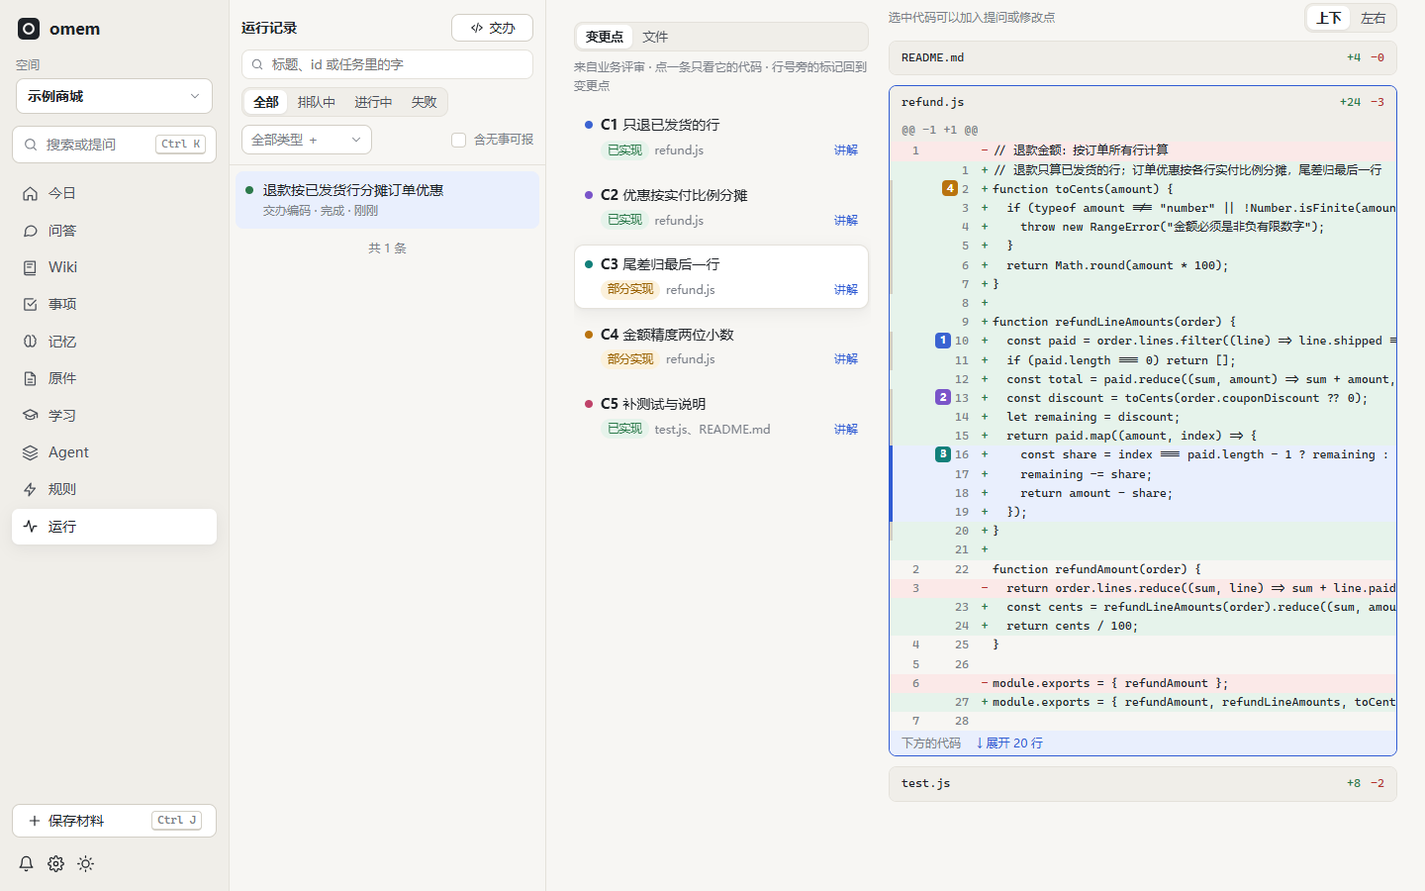
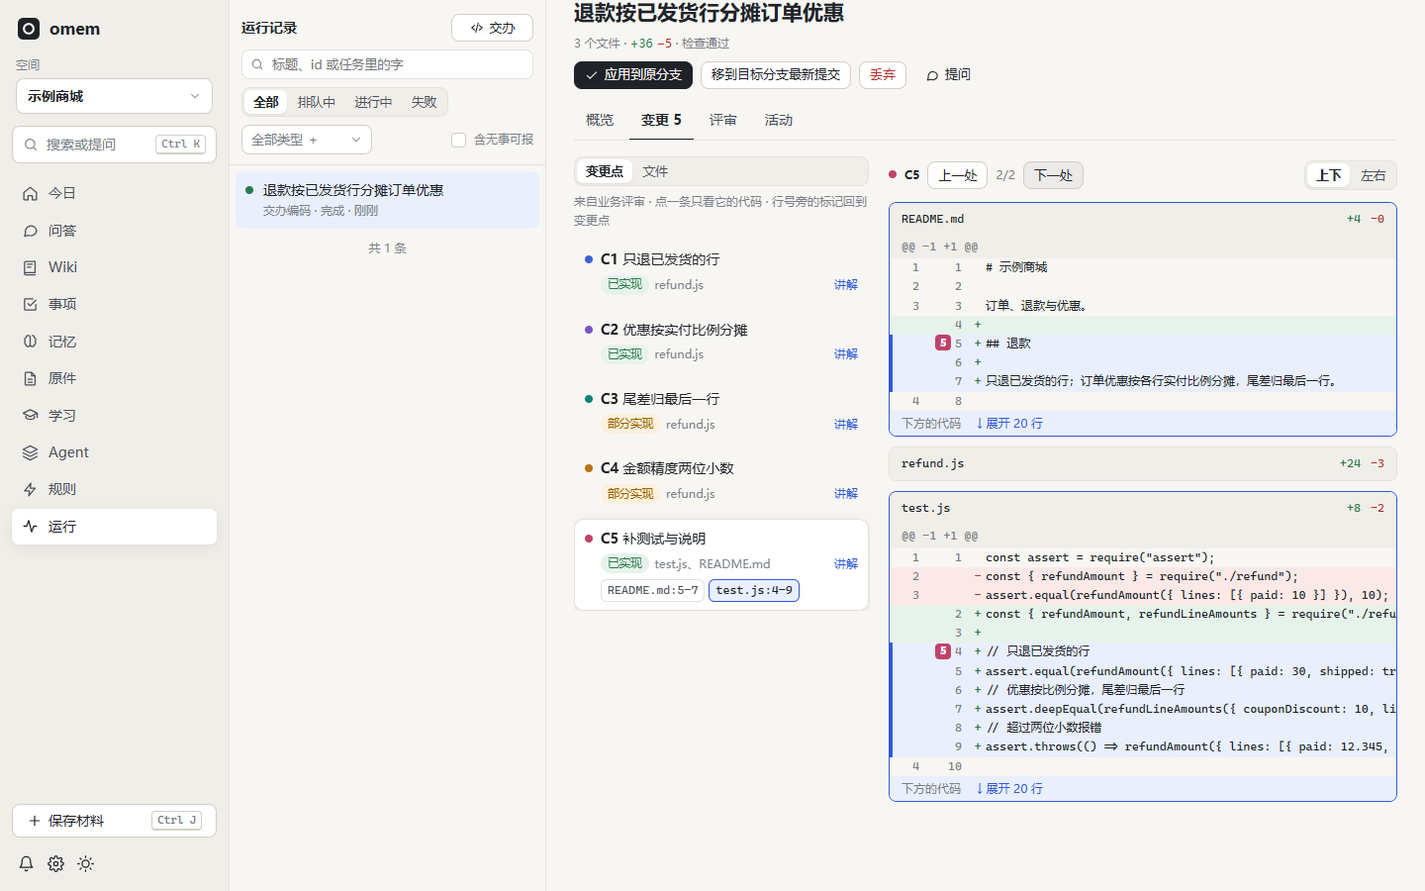
变更点逐处跳转：选中的变更点列出各处位置（文件:行），点哪处跳哪处；代码上方吸顶的“上一处 / 下一处”与计数，键盘 n / N；跳到的行短暂描边；文件树给当前变更点涉及的文件加同色圆点；doc-screens 加 --serve

diff --git a/web/src/components/ChangeView.vue b/web/src/components/ChangeView.vue
@@ -1,5 +1,5 @@
 <script setup lang="ts">
-import { computed, nextTick, onBeforeUnmount, ref, watch } from "vue";
+import { computed, nextTick, onBeforeUnmount, onMounted, ref, watch } from "vue";
 import { get, post } from "../api";
 import DiffFile, { type DiffPoint } from "./DiffFile.vue";
 import DiffTree from "./DiffTree.vue";
@@ -11,7 +11,8 @@ import { POINT_STATUS, type ChangePoint, type Reviews } from "../lib/reviews";
 /**
  * The run page's “变更” tab: the requirement's change points (from the business review) on the left,
  * or the changed files as a tree, and the diff on the right. Choosing a point highlights its lines and
- * scrolls its first mark into view; the marks next to line numbers lead back to the point. A point's
+ * scrolls to its first place in the code; its places are listed under it and stepped through with
+ * 上一处 / 下一处 (or n / N). The marks next to line numbers lead back to the point. A point's
  * explanation opens in the ask drawer.
  */
 type DiffRepo = { space: string; files: { name: string; lines: string[]; add: number; rm: number }[] };
@@ -57,23 +58,82 @@ async function choose(p: ChangePoint) {
   for (const d of props.diffs) for (const f of d.files) if (touches(p, d.space, f.name)) n.add(key(d.space, f.name));
   open.value = n;
   view.value = "code";
+  stop.value = 0;
   await nextTick();
-  // The point's first marked line, a third of the way down (its number badge in sight); a point
-  // known only by file goes to that file's header.
-  const line = codeEl.value?.querySelector<HTMLElement>(".cp-on");
-  if (line) scrollToEl(line, 0.33);
-  else { const f = codeEl.value?.querySelector<HTMLElement>(".file.hit"); if (f) scrollToEl(f, 0); }
+  await go(0);
 }
+
+// ---- a point's places in the code, in page order, stepped through one by one -------------------
+type Stop = { key: string; name: string; start?: number; end?: number };
+const pageFiles = computed(() => (points.value.length ? mapped.value : props.diffs).flatMap((d) => d.files.map((f) => ({ space: d.space, name: f.name }))));
+const stopsOf = (p: ChangePoint): Stop[] => {
+  const out: Stop[] = [];
+  for (const f of pageFiles.value) {
+    const locs = p.locations.filter((l) => sameFile(f.space, f.name, l.file)).sort((a, b) => (a.start ?? 0) - (b.start ?? 0));
+    const seen = new Set<string>();
+    for (const l of locs) {
+      const s = `${l.start ?? ""}`;
+      if (seen.has(s)) continue;
+      seen.add(s);
+      out.push({ key: key(f.space, f.name), name: f.name.split("/").pop()!, start: l.start, end: l.end ?? l.start });
+    }
+  }
+  return out;
+};
+const activePoint = computed(() => points.value.find((p) => p.id === active.value) ?? null);
+const stops = computed(() => (activePoint.value ? stopsOf(activePoint.value) : []));
+/** Locations naming a file the diff does not have (a reviewer's slip, or a file outside the change). */
+const strays = computed(() => activePoint.value?.locations.filter((l) => !pageFiles.value.some((f) => sameFile(f.space, f.name, l.file))) ?? []);
+const stop = ref(0);
+const stopLabel = (s: Stop) => (s.start ? `${s.name}:${s.start}${s.end && s.end !== s.start ? `–${s.end}` : ""}` : `${s.name}（文件级）`);
+let flashed: HTMLElement | null = null;
+let flashTimer: ReturnType<typeof setTimeout> | undefined;
+async function go(i: number) {
+  const list = stops.value;
+  if (!list.length) {
+    const f = codeEl.value?.querySelector<HTMLElement>(".file.hit");
+    if (f) scrollToEl(f, 0);
+    return;
+  }
+  stop.value = (i + list.length) % list.length;
+  const s = list[stop.value];
+  if (!open.value.has(s.key)) { open.value = new Set([...open.value, s.key]); await nextTick(); }
+  const file = codeEl.value?.querySelector<HTMLElement>(`.file[data-key="${CSS.escape(s.key)}"]`);
+  if (!file) return;
+  // The location's first marked row, a third of the way down (its number badge in sight); a
+  // location known only by file goes to that file's header.
+  const rows = [...file.querySelectorAll<HTMLElement>("tr.cp-on")];
+  const row = s.start ? (rows.find((r) => { const n = Number(r.dataset.line); return n >= s.start! && n <= (s.end ?? s.start!); }) ?? rows[0]) : null;
+  if (row) scrollToEl(row, 0.33);
+  else scrollToEl(file, 0);
+  flashed?.classList.remove("cp-here");
+  clearTimeout(flashTimer);
+  flashed = row ?? file;
+  flashed.classList.add("cp-here");
+  flashTimer = setTimeout(() => flashed?.classList.remove("cp-here"), 1600);
+}
+function onKey(e: KeyboardEvent) {
+  if (!active.value || e.ctrlKey || e.metaKey || e.altKey || (e.key !== "n" && e.key !== "N")) return;
+  const t = e.target;
+  if (t instanceof HTMLElement && (t.closest("input, textarea, select, [contenteditable]") || t.isContentEditable)) return;
+  e.preventDefault();
+  void go(stop.value + (e.key === "N" ? -1 : 1));
+}
+onMounted(() => window.addEventListener("keydown", onKey));
+onBeforeUnmount(() => { window.removeEventListener("keydown", onKey); clearTimeout(flashTimer); });
+const activeFiles = computed(() => new Set(stops.value.map((s) => s.key)));
 /** Scroll the nearest scrolling ancestor (or the window) so `el` sits at `frac` of the visible height. */
 function scrollToEl(el: HTMLElement, frac: number) {
   let box: HTMLElement | null = el.parentElement;
   // (A box scrolling sideways computes overflow-y auto too; only one that scrolls down counts.)
   while (box && !(/(auto|scroll)/.test(getComputedStyle(box).overflowY) && box.scrollHeight > box.clientHeight)) box = box.parentElement;
   const r = el.getBoundingClientRect();
+  // Clear of the sticky bar above the code.
+  const pad = (codeEl.value?.querySelector<HTMLElement>(".code-bar")?.offsetHeight ?? 0) + 6;
   if (box) {
     const b = box.getBoundingClientRect();
-    box.scrollTo({ top: box.scrollTop + r.top - b.top - b.height * frac + 8, behavior: "smooth" });
-  } else window.scrollTo({ top: window.scrollY + r.top - window.innerHeight * frac + 8, behavior: "smooth" });
+    box.scrollTo({ top: box.scrollTop + r.top - b.top - b.height * frac - pad, behavior: "smooth" });
+  } else window.scrollTo({ top: window.scrollY + r.top - window.innerHeight * frac - pad, behavior: "smooth" });
 }
 // ---- the file tree: every changed file, opened and scrolled to on a pick -----------------------
 const aside = ref<"points" | "files">("points");
@@ -95,7 +155,7 @@ function fromMark(id: string) {
   const p = points.value.find((x) => x.id === id);
   if (p) emit("explain", p);
 }
-watch(() => props.runId, () => { active.value = null; activeFile.value = null; open.value = new Set(); });
+watch(() => props.runId, () => { active.value = null; activeFile.value = null; open.value = new Set(); stop.value = 0; });
 // An earlier review has no split: one can be run now; the page follows it until the points arrive.
 const splitRun = ref<string | null>(null);
 let splitTimer: ReturnType<typeof setTimeout> | undefined;
@@ -131,7 +191,7 @@ const viewOptions = [{ value: "points" as const, label: "变更点" }, { value: 
     <div class="cols">
       <aside class="points" :class="{ hide: view !== 'points' }">
         <UiSegmented v-model="aside" size="sm" :options="asideOptions" aria-label="按变更点还是按文件看" />
-        <DiffTree v-if="aside === 'files'" :files="treeFiles" :active="activeFile" :marked="pointFiles" @pick="pickFile" />
+        <DiffTree v-if="aside === 'files'" :files="treeFiles" :active="activeFile" :marked="pointFiles" :hot="activeFiles" :hot-color="active ? colorOf(active) : undefined" @pick="pickFile" />
         <template v-else>
         <p v-if="points.length" class="legend muted small">来自业务评审 · 点一条只看它的代码 · 行号旁的标记回到变更点</p>
         <div v-else class="split">
@@ -150,11 +210,24 @@ const viewOptions = [{ value: "points" as const, label: "变更点" }, { value: 
             <span class="spacer" />
             <button class="lnk" @click="emit('explain', p)">讲解</button>
           </div>
+          <ol v-if="active === p.id && stops.length + strays.length > 1" class="stops small" aria-label="这个变更点在代码里的位置">
+            <li v-for="(s, i) in stops" :key="`${s.key}:${s.start ?? ''}`">
+              <button class="stop mono" :class="{ on: stop === i }" :aria-current="stop === i ? 'location' : undefined" :title="s.key.slice(s.key.indexOf(':') + 1)" @click="go(i)">{{ stopLabel(s) }}</button>
+            </li>
+            <li v-for="l in strays" :key="`x:${l.file}:${l.start ?? ''}`" class="muted mono" title="改动里没有这个文件">{{ l.file.split("/").pop() }}{{ l.start ? `:${l.start}` : "" }}（不在改动里）</li>
+          </ol>
         </div>
         </template>
       </aside>
       <div ref="codeEl" class="code" :class="{ hide: view !== 'code' }">
-        <div class="code-bar row"><span class="muted small">选中代码可以加入提问或修改点</span><span class="spacer" /><UiSegmented v-model="diffLayout" size="sm" :options="diffLayoutOptions" aria-label="差异的排列" /></div>
+        <div class="code-bar row">
+          <span v-if="active && stops.length > 1" class="nav row small">
+            <span class="dot" :style="{ background: colorOf(active) }" /><strong>{{ active }}</strong>
+            <button class="btn sm" title="上一处（N）" @click="go(stop - 1)">上一处</button>
+            <span class="muted">{{ stop + 1 }}/{{ stops.length }}</span>
+            <button class="btn sm" title="下一处（n）" @click="go(stop + 1)">下一处</button>
+          </span>
+          <span v-else class="muted small">选中代码可以加入提问或修改点</span><span class="spacer" /><UiSegmented v-model="diffLayout" size="sm" :options="diffLayoutOptions" aria-label="差异的排列" /></div>
         <template v-for="d in points.length ? mapped : diffs" :key="d.space">
           <div v-if="multi" class="repo">{{ spaceName(d.space) }}</div>
           <div v-for="f in d.files" :key="f.name" class="file" :data-key="key(d.space, f.name)" :class="{ hit: !!active && points.some((p) => p.id === active && touches(p, d.space, f.name)), picked: activeFile === key(d.space, f.name) }">
@@ -199,7 +272,14 @@ const viewOptions = [{ value: "points" as const, label: "变更点" }, { value: 
 .repo { margin: 4px 0 6px; font-weight: 600; }
 .file { border: 1px solid var(--line); border-radius: 8px; margin-bottom: 10px; overflow: hidden; }
 .file.hit, .file.picked { border-color: var(--accent); }
-.code-bar { margin-bottom: 8px; }
+.file.cp-here { box-shadow: 0 0 0 2px var(--accent-soft); }
+.code-bar { margin-bottom: 8px; position: sticky; top: 0; z-index: 2; background: var(--bg); padding: 4px 0; gap: 8px; }
+.nav { gap: 8px; align-items: center; }
+.stops { list-style: none; margin: 6px 0 0 16px; padding: 0; display: flex; flex-wrap: wrap; gap: 4px; }
+.stop { border: 1px solid var(--line); background: var(--panel); color: var(--ink-2); border-radius: 6px; padding: 1px 6px; font-size: 12px; cursor: pointer; max-width: 100%; overflow: hidden; text-overflow: ellipsis; white-space: nowrap; }
+.stop:hover { border-color: var(--accent); }
+.stop.on { border-color: var(--accent); background: var(--accent-soft); color: var(--ink); }
+.stops .muted { font-size: 12px; padding: 1px 0; }
 .fhead { display: flex; gap: 10px; width: 100%; padding: 7px 12px; background: var(--sunken); border: 0; color: var(--ink); cursor: pointer; text-align: left; min-width: 0; }
 .fhead .ellipsis { flex: 1; min-width: 0; }
 .add { color: var(--ok); }

diff --git a/scripts/doc-screens.ts b/scripts/doc-screens.ts
@@ -7,7 +7,8 @@
  * technical plan, a group chat, code, a Wiki page, memories, items, a reviewed delegation, a rule),
  * serves the built web on it and captures each feature at 1440×900 (light). Nothing real is shown,
  * so the images can be published. When a page changes, run it again; the file names stay the same.
- * Uses the installed Edge or Chrome (CHROMIUM=path to override).
+ * Uses the installed Edge or Chrome (CHROMIUM=path to override). With `--serve` it only serves the
+ * demo data and prints the address, to look around by hand.
  */
 import { mkdirSync, mkdtempSync, rmSync, writeFileSync } from "node:fs";
 import { tmpdir } from "node:os";
@@ -27,7 +28,8 @@ import { startServer } from "../src/server/http.ts";
 import { upsertSource } from "../src/sources/store.ts";
 import { writePage } from "../src/wiki/store.ts";
 
-const out = resolve(process.argv[2] ?? "site/public/screens");
+const serveOnly = process.argv.includes("--serve");
+const out = resolve(process.argv.slice(2).find((a) => !a.startsWith("--")) ?? "site/public/screens");
 mkdirSync(out, { recursive: true });
 const home = mkdtempSync(join(tmpdir(), "omem-screens-"));
 const app = App.open(home);
@@ -258,6 +260,10 @@ const rule = saveRule(app, {
 // ---- capture ----------------------------------------------------------------------------------
 const server = await startServer(app, { port: 0, host: "127.0.0.1", quiet: true });
 const url = app.baseUrl;
+if (serveOnly) {
+  console.log(`演示数据：${url}/#/runs/${r.id}（Ctrl+C 结束）`);
+  await new Promise(() => {});
+}
 const browser = await chromium.launch(process.env.CHROMIUM ? { executablePath: process.env.CHROMIUM } : { channel: process.platform === "win32" ? "msedge" : "chrome" });
 const shots: { name: string; path: string; width?: number; dark?: boolean; prepare?: (page: Page) => Promise<void> }[] = [
   { name: "today", path: "/" },
@@ -268,7 +274,7 @@ const shots: { name: string; path: string; width?: number; dark?: boolean; prepa
   { name: "items", path: `/items/${item.id}` },
   { name: "review-overview", path: `/runs/${r.id}` },
   { name: "review-checks", path: `/runs/${r.id}`, prepare: async (p) => { await p.getByRole("tab", { name: "评审" }).click(); await p.locator(".check-head").nth(1).click(); await p.waitForTimeout(300); } },
-  { name: "review-change", path: `/runs/${r.id}`, prepare: async (p) => { await p.getByRole("tab", { name: /变更/ }).click(); await p.locator(".pick").nth(2).click(); await p.waitForTimeout(1200); } },
+  { name: "review-change", path: `/runs/${r.id}`, prepare: async (p) => { await p.getByRole("tab", { name: /变更/ }).click(); await p.locator(".pick").nth(4).click(); await p.waitForTimeout(900); await p.getByRole("button", { name: "下一处" }).click(); await p.waitForTimeout(1200); } },
   { name: "review-split-diff", path: `/runs/${r.id}`, prepare: async (p) => { await p.getByRole("tab", { name: /变更/ }).click(); await p.getByRole("radio", { name: "左右" }).click(); await p.getByRole("radio", { name: "文件" }).click(); await p.locator(".tree .row-btn.file").first().click(); await p.waitForTimeout(1200); } },
   { name: "review-activity", path: `/runs/${r.id}`, prepare: async (p) => { await p.getByRole("tab", { name: "活动" }).click(); await p.waitForTimeout(500); await p.locator(".sec-head").nth(1).click(); await p.waitForTimeout(300); } },
   { name: "review-quotes", path: `/runs/${r.id}`, prepare: async (p) => {

diff --git a/web/src/components/DiffTree.vue b/web/src/components/DiffTree.vue
@@ -8,7 +8,8 @@ import Icon from "./Icon.vue";
  * (open its diff and scroll to it).
  */
 export type TreeFile = { key: string; path: string; add: number; rm: number };
-const props = defineProps<{ files: TreeFile[]; active?: string | null; marked?: Set<string> }>();
+/** `hot`: the files of the change point being looked at, shown with its colour. */
+const props = defineProps<{ files: TreeFile[]; active?: string | null; marked?: Set<string>; hot?: Set<string>; hotColor?: string }>();
 const emit = defineEmits<{ pick: [key: string] }>();
 
 type Dir = { name: string; path: string; dirs: Map<string, Dir>; files: TreeFile[] };
@@ -60,7 +61,7 @@ const lines = computed(() => {
         <Icon :name="closed.has(l.dir.path) ? 'right' : 'down'" :size="12" /><Icon name="folder" :size="13" /><span class="ellipsis">{{ l.dir.name }}</span>
       </button>
       <button v-else class="row-btn file" :class="{ on: active === l.file.key, marked: marked?.has(l.file.key) }" :style="{ paddingLeft: `${24 + l.depth * 14}px` }" :title="l.file.path" @click="emit('pick', l.file.key)">
-        <span class="ellipsis mono">{{ l.name }}</span><span class="add">+{{ l.file.add }}</span><span class="rm">-{{ l.file.rm }}</span>
+        <span class="ellipsis mono">{{ l.name }}</span><span v-if="hot?.has(l.file.key)" class="hot" :style="{ background: hotColor }" title="当前变更点涉及" /><span class="add">+{{ l.file.add }}</span><span class="rm">-{{ l.file.rm }}</span>
       </button>
     </template>
   </nav>
@@ -74,6 +75,7 @@ const lines = computed(() => {
 .dir { color: var(--ink); }
 .file.on { background: var(--accent-soft); color: var(--ink); }
 .file.marked .mono { font-weight: 600; }
+.hot { width: 7px; height: 7px; border-radius: 50%; flex: none; background: var(--accent); }
 .add { color: var(--ok); font-size: 11px; }
 .rm { color: var(--danger); font-size: 11px; }
 </style>

diff --git a/web/src/components/DiffFile.vue b/web/src/components/DiffFile.vue
@@ -219,6 +219,9 @@ const gapLabel = (g: Gap) => (g.to === null && !file.value ? "下方的代码" :
 .cp > td:first-child { box-shadow: inset 3px 0 0 var(--line-strong); }
 .cp-on > td { background-image: linear-gradient(var(--accent-soft), var(--accent-soft)); }
 .cp-on > td:first-child { box-shadow: inset 3px 0 0 var(--accent); }
+/* The place 上一处 / 下一处 just went to. */
+.cp-here > td { animation: cp-here 1.6s ease-out; }
+@keyframes cp-here { from { background-color: var(--accent-soft); outline: 2px solid var(--accent); outline-offset: -2px; } to { outline-color: transparent; } }
 /* Side by side: fixed columns, long lines wrap instead of scrolling the half sideways. */
 .split .dtable { table-layout: fixed; }
 .split .cno { width: 52px; }

diff --git a/.repo-review/wiki/reference/changes-since-2026-10-13.md b/.repo-review/wiki/reference/changes-since-2026-10-13.md
@@ -87,6 +87,7 @@ updated: 2026-10-25
 
 ## 网页
 
+- 变更点逐处跳转（10-27）：选中的变更点下面列出它在代码里的各处位置（按页面顺序，同一文件按行号；改动里没有的文件标“不在改动里”），点哪处跳哪处；代码上方的吸顶条显示“上一处 / 下一处”和计数，键盘 `n` / `N` 同样可用；跳到的行短暂描边；文件树给当前变更点涉及的文件加同色圆点（`ChangeView.vue` 的 `stops` / `go`，`DiffTree` 的 `hot`）。`scripts/doc-screens.ts --serve` 只启动演示数据供手动查看。
 - 文档站（10-27）：`site/`（VitePress，独立的 package 和锁文件）：首页、开始使用、命令行、各功能页；主题沿用网页的 token（`site/.vitepress/theme/custom.css`），`<Shot>` 组件显示截图。`.github/workflows/docs.yml` 在 main 上 `site/**` 变化时构建并发布到 GitHub Pages（`DOCS_BASE` 为仓库名）。截图由 `scripts/doc-screens.ts` 生成：在临时数据目录里放入虚构的演示数据（示例商城 · 退款改造：需求、方案、群聊、代码、Wiki、记忆、事项、带五个评审项的交办、规则），用构建好的网页截 17 张到 `site/public/screens/`，README 也引用它们。
 - 编码前的 Git 同步（10-27）：`src/agents/code-sync.ts`（`syncWorktree` 拉取 / 合并 / 变基，`finishSync` 把每轮冲突交给解决者再继续，`moveToTarget` 把未应用的改动变基到目标分支最新提交，`popStash` 放回同步前收起的改动）。`code.ts` 的 `syncPhase` 在编码前运行：冲突交给编码 Agent（`conflictTask`，`roles/coder.md` 加了 `ask_owner` / `wait_answer`），剩下的停下来发提问 `code-sync`（继续 → 新一轮 `syncResume`；放弃 → 回到同步前）。`WorktreeRef` 新增 `start` / `syncHead`：应用时先 `merge --ff-only` 到 `syncHead`（目标分支必须还在 `start`），再应用补丁。没有会话链的网页交办续轮用 `review-fix.ts` 的 `queueStandaloneFix`（可带 `extraInput`）。`code-git.ts` 推送可指定 `branch`，`force` 用 `--force-with-lease=<分支>:<上次拉取的提交>`。接口 `POST /api/runs/:id/move-to-target`、`GET /api/asks/:id`；`/api/delegate` 接受 `sync` / `syncOnly`。
 - 运行页的引用与修改点（10-26）：选中文字后有“加入提问 / 加入修改点”两个按钮，范围是运行详情和从它打开的引用抽屉（带 `data-quotable` 的区域；`CodeView` 行带 `data-line`，引用带上行号）。引用按运行存在本机（`web/src/lib/quotes.ts`），按 [1]、[2] 编号；提问抽屉（`AskAboutRun` 的 `basket`）可缩小成可拖动的图标（`QuoteDock.vue`，位置记在本机），继续选别处再加入；修改点在 `FixBasket.vue` 里逐条写要求，和评审里定为“改”的问题一起开始修改，“概览”的修改框也会带上它们。

diff --git a/docs/v2/acceptance.md b/docs/v2/acceptance.md
@@ -521,7 +521,7 @@ TraeX 与其他 ACP 的清理补验：
 - 交办时勾“拉取目标分支在 origin 上的新提交”、选一个分支“合并”并勾“只同步”：两边改了同一行时，编码 Agent 解决冲突，运行显示“同步完成，可以应用”，说明里列出冲突文件和解决后的差异；应用后目标分支多了一个合并提交。让编码 Agent 解决不了（或冲突涉及业务取舍）时，收到“已解决，继续 / 放弃这次同步”的卡片，在卡片写的工作区里解决并 git add 后点继续，新的一轮完成同步。
 - 交办完成后在目标分支上另提交一次，再点“应用到原分支”：提示目标分支有了新提交；点“移到目标分支最新提交”，新一轮完成后可以应用。“接收位置与提交”里填别的分支名推送，origin 上出现这个分支；变基过的分支不勾“强制推送”时推送被拒并提示，勾上后推送成功。
 - 运行页（有改动的交办）：在差异里选中一段，出现“加入提问 / 加入修改点”。加入提问后点“缩小”，抽屉变成右下角可拖动的图标；再选另一段（也可以是从评审问题打开的代码抽屉里的一段）加入，展开后两段按 [1]、[2] 编号，发送的问题里带着两段原文。加入修改点的几段在图标的“修改点”里，逐条写要求后“开始修改”，新的修改运行的任务里有这些原文和要求。
-- “变更”标签点一个变更点，它的编号标记出现在屏幕上部三分之一左右；右上切到“左右”，差异变成并排，刷新后仍是并排；左侧切到“文件”，点树里的文件，跳到这个文件的差异。
+- “变更”标签点一个变更点，它的编号标记出现在屏幕上部三分之一左右；涉及几个文件的变更点下面列出各处位置，点任一处、点“上一处 / 下一处”或按 `n` / `N` 都跳到对应的行并短暂描边，计数（如 2/3）跟着变，左侧“文件”树里它涉及的文件带同色圆点；右上切到“左右”，差异变成并排，刷新后仍是并排；左侧切到“文件”，点树里的文件，跳到这个文件的差异。
 - 规则的“发到”选一个群聊保存后，下拉框显示的仍是群名。
 - 评审结束后飞书收到一张卡片：标题说明通过还是要求修改，正文有结论、改动和检查、问题数和默认要改的几个、变更点数；分支评审有“按评审修改 / 先不改”，在输入框写一句再点“按评审修改”，新的修改运行的任务里有这句话和默认要改的问题。网页上先点了“开始修改”，这张卡片变成已失效。
 - 交办编码完成、等确认评审计划时，卡片里能看到改了多少、检查是否通过和编码 Agent 的说明。

diff --git a/site/features/review.md b/site/features/review.md
@@ -19,9 +19,9 @@
 
 ## 变更
 
-<Shot src="review-change" caption="变更：业务评审把需求拆成变更点，点一条高亮对应代码" />
+<Shot src="review-change" caption="变更：业务评审把需求拆成变更点，点一条高亮对应代码，涉及几处时逐处跳转" />
 
-业务评审把需求拆成变更点，每条写需求怎么说（带原文引用）、代码怎么做、状态（已实现 / 部分实现 / 没实现 / 需求外）和实现位置。点变更点，代码高亮并把它的第一处标记滚到屏幕上部；点行号旁的标记看讲解、就地提问。升级前的评审可以点“拆分需求”补一次。
+业务评审把需求拆成变更点，每条写需求怎么说（带原文引用）、代码怎么做、状态（已实现 / 部分实现 / 没实现 / 需求外）和实现位置。点变更点，代码高亮并把它的第一处标记滚到屏幕上部；一个变更点涉及几处（几个文件）时，下面列出各处位置（`文件:行`），点哪处跳哪处，代码上方的“上一处 / 下一处”（键盘 `n` / `N`）按顺序走一遍，左侧切到“文件”时它涉及的文件带同色圆点；点行号旁的标记看讲解、就地提问。升级前的评审可以点“拆分需求”补一次。
 
 <Shot src="review-split-diff" caption="差异可以切换上下 / 左右对比，左侧切到文件树" />
 
